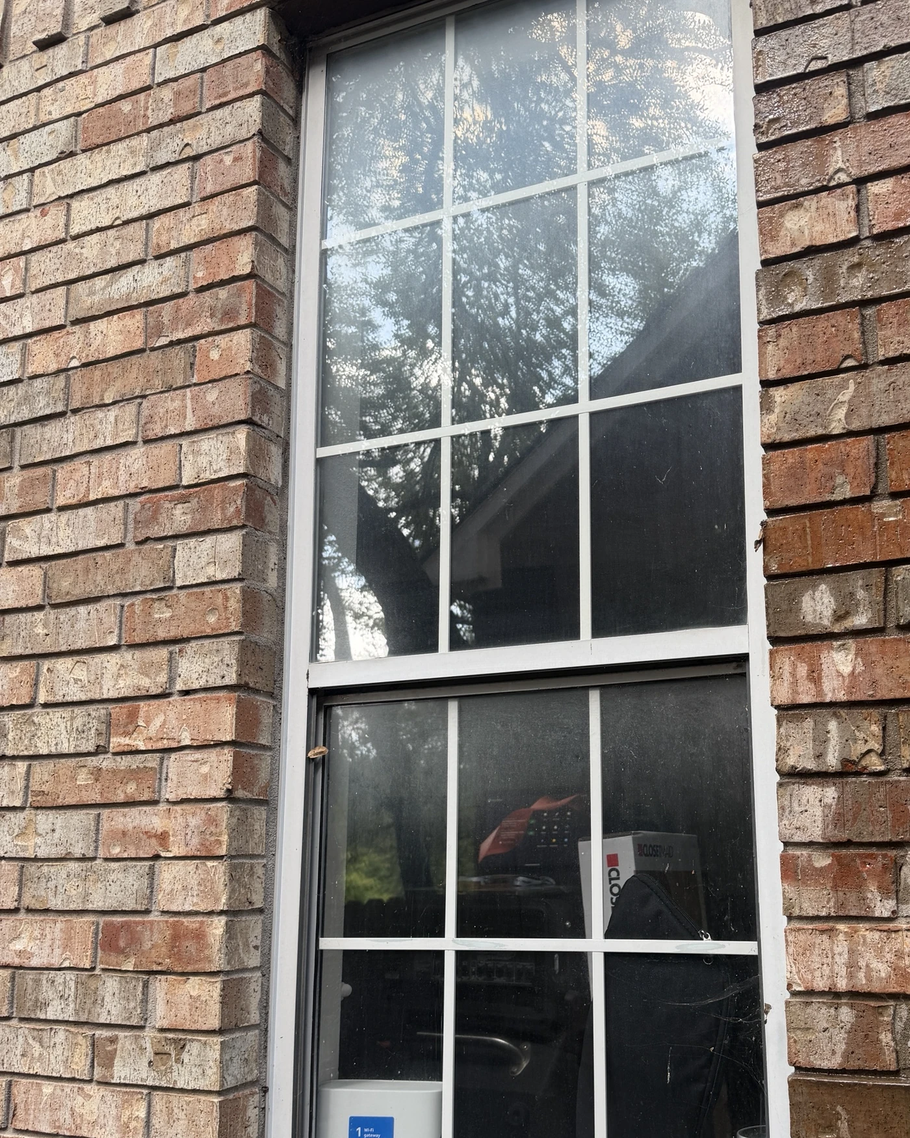
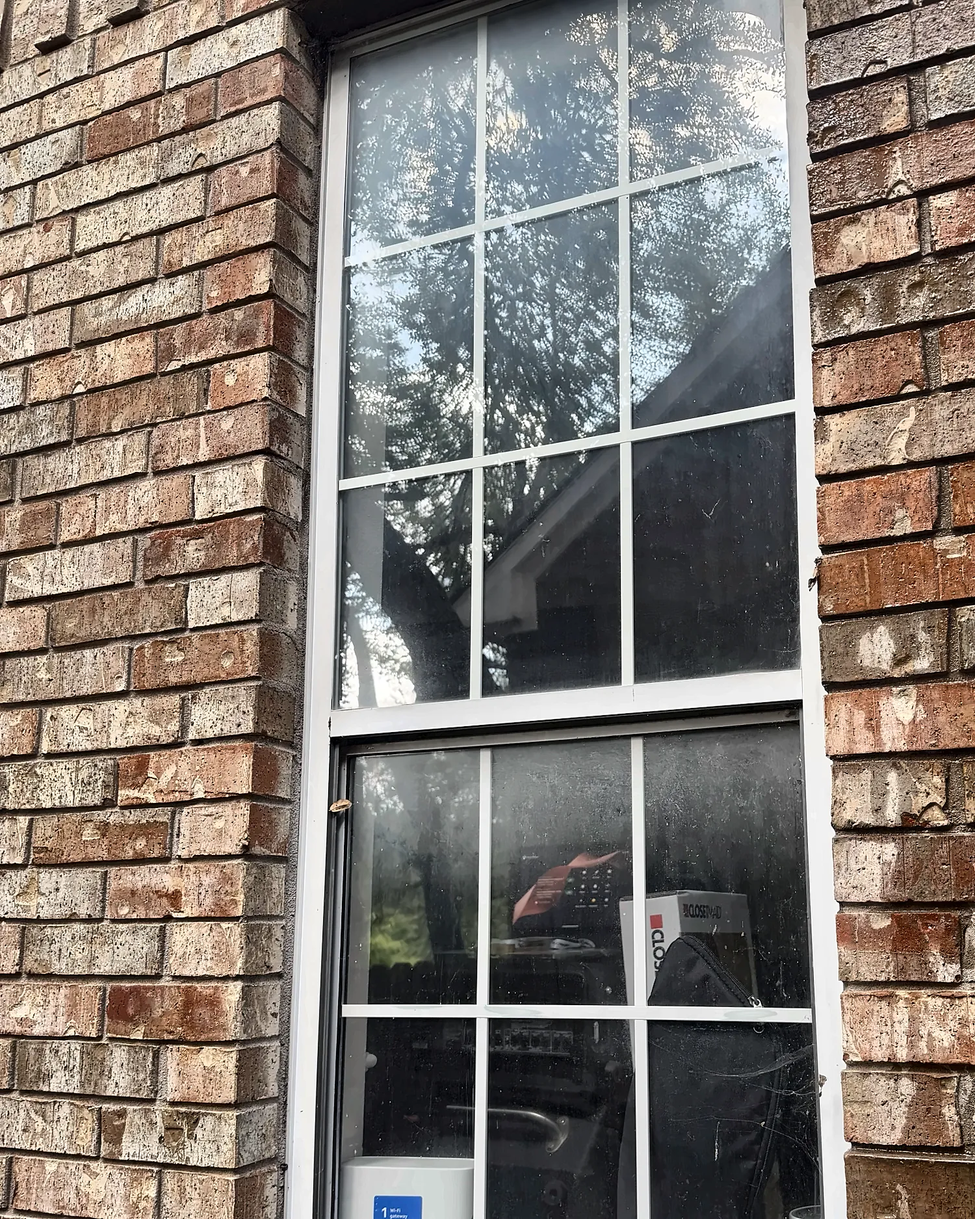
Studio-quality before/after: lossless alignment, clean denoise/sharpen, side-by-side view
Claude-Session: https://claude.ai/code/session_015s5PL8TLBmz3grWm3MhsML

diff --git a/src/components/LivePhoto.jsx b/src/components/LivePhoto.jsx
@@ -4,7 +4,7 @@ import { useReducedMotion } from '../hooks/useMedia'
 import BeforeAfter from './BeforeAfter'
 import WindowScene from './WindowScene'
 
-const img = (src, alt) => <img src={src} alt={alt} className="h-full w-full object-cover" loading="lazy" draggable="false" />
+const img = (src, alt, sm) => <img src={src} srcSet={sm ? `${sm} 900w, ${src} 1500w` : undefined} sizes="(min-width: 1024px) 560px, 100vw" alt={alt} className="h-full w-full object-cover" loading="lazy" decoding="async" draggable="false" />
 
 /**
  * "Live Photo" before/after: shows the dirty still; press & hold (touch) or hover (mouse) and it washes clean.
@@ -19,7 +19,7 @@ export default function LivePhoto({ item, seed = 5, label }) {
   const alt = item?.label || label || 'Window'
   const aspect = item?.aspect || 1.6
   const frame = { aspectRatio: aspect }
-  const rootStyle = aspect < 1 ? { width: '100%', maxWidth: 'min(100%, 560px)', marginInline: 'auto' } : undefined
+  const rootStyle = aspect < 1 ? { width: '100%', maxWidth: mode === 'side' ? 'min(100%, 920px)' : 'min(100%, 560px)', marginInline: 'auto' } : undefined
 
   const paint = (p) => {
     if (after.current) after.current.style.clipPath = `inset(0 ${100 - p * 100}% 0 0)`
@@ -42,14 +42,29 @@ export default function LivePhoto({ item, seed = 5, label }) {
   }
   useEffect(() => { paint(0); return () => st.current.tween?.kill() }, [mode])
 
-  const beforeEl = item ? img(item.before, `${alt} before cleaning`) : <WindowScene dirty seed={seed} />
-  const afterEl = item ? img(item.after, `${alt} after cleaning`) : <WindowScene seed={seed} />
+  const beforeEl = item ? img(item.before, `${alt} before cleaning`, item.beforeSm) : <WindowScene dirty seed={seed} />
+  const afterEl = item ? img(item.after, `${alt} after cleaning`, item.afterSm) : <WindowScene seed={seed} />
+
+  if (mode === 'side') {
+    const cell = (el, tag, hot) => (
+      <figure className="relative overflow-hidden rounded-[22px] border border-silver/20 shadow-[0_30px_70px_-30px_rgba(0,0,0,.8)]" style={{ aspectRatio: aspect }}>
+        <div className="absolute inset-0">{el}</div>
+        <figcaption className={`absolute left-3 top-3 rounded-full px-3 py-1.5 text-[11px] font-bold uppercase tracking-[0.2em] backdrop-blur ${hot ? 'bg-royal text-white shadow-[0_0_24px_rgba(0,122,255,.7)]' : 'bg-midnight/70 text-white'}`}>{tag}</figcaption>
+      </figure>
+    )
+    return (
+      <div key="side" className="mode-in" style={rootStyle}>
+        <div className="grid grid-cols-2 gap-3 md:gap-5">{cell(beforeEl, 'Before')}{cell(afterEl, 'After', true)}</div>
+        <Toggle mode={mode} setMode={setMode} caption={item ? (item.caption || CAPTION) : null} />
+      </div>
+    )
+  }
 
   if (mode === 'slider') {
     return (
       <div key="slider" className="mode-in" style={rootStyle}>
         <BeforeAfter before={beforeEl} after={afterEl} aspect={aspect} />
-        <Toggle mode={mode} setMode={setMode} />
+        <Toggle mode={mode} setMode={setMode} caption={item ? (item.caption || CAPTION) : null} />
       </div>
     )
   }
@@ -89,20 +104,24 @@ export default function LivePhoto({ item, seed = 5, label }) {
           <span className="whitespace-nowrap rounded-full bg-midnight/60 px-3 py-2 text-[10px] tracking-[0.2em] backdrop-blur sm:px-4 sm:text-[11px] sm:tracking-[0.3em]"><span className="hidden [@media(hover:hover)]:inline">Hover</span><span className="[@media(hover:hover)]:hidden">Press &amp; hold</span> to watch it wash clean</span>
         </span>
       </div>
-      <Toggle mode={mode} setMode={setMode} onPlay={() => (playing ? stop() : start())} playing={playing} />
+      <Toggle mode={mode} setMode={setMode} onPlay={() => (playing ? stop() : start())} playing={playing} caption={item ? (item.caption || CAPTION) : null} />
     </div>
   )
 }
 
-function Toggle({ mode, setMode, onPlay, playing }) {
+const CAPTION = 'Real job photos: same window, same spot. Sharpened and color-corrected only.'
+
+function Toggle({ mode, setMode, onPlay, playing, caption }) {
   const b = 'min-h-[44px] rounded-full border px-5 text-sm font-bold transition-colors'
   return (
     <div className="mt-4 flex flex-wrap items-center gap-2">
       <div role="group" aria-label="Comparison style" className="flex gap-2">
         <button onClick={() => setMode('live')} aria-pressed={mode === 'live'} className={`${b} ${mode === 'live' ? 'border-royal bg-royal text-white' : 'border-silver/30 text-silver hover:border-white hover:text-white'}`}>Live</button>
         <button onClick={() => setMode('slider')} aria-pressed={mode === 'slider'} className={`${b} ${mode === 'slider' ? 'border-royal bg-royal text-white' : 'border-silver/30 text-silver hover:border-white hover:text-white'}`}>Slider</button>
+        <button onClick={() => setMode('side')} aria-pressed={mode === 'side'} className={`${b} ${mode === 'side' ? 'border-royal bg-royal text-white' : 'border-silver/30 text-silver hover:border-white hover:text-white'}`}>Side by side</button>
       </div>
       {onPlay && <button onClick={onPlay} aria-pressed={playing} className={`${b} border-silver/30 text-silver hover:border-white hover:text-white`}>{playing ? 'Back to before' : 'Play it'}</button>}
+      {caption && <p className="mt-1 w-full text-[12px] leading-relaxed text-silver-dim">{caption}</p>}
     </div>
   )
 }

diff --git a/src/config/site.js b/src/config/site.js
@@ -184,7 +184,7 @@ export const heroVideo = { src: '', poster: '' }
  * While this list is empty, the site shows illustrated examples instead.
  */
 export const beforeAfter = [
-  { before: '/ba/window1-before.webp', after: '/ba/window1-after.webp', label: 'Brick-front window', aspect: 0.8 },
+  { before: '/ba/window1-before.webp', beforeSm: '/ba/window1-before-sm.webp', after: '/ba/window1-after.webp', afterSm: '/ba/window1-after-sm.webp', label: 'Brick-front window', aspect: 0.8 },
 ]
 
 /**

diff --git a/src/components/WindowCompare.jsx b/src/components/WindowCompare.jsx
@@ -11,7 +11,7 @@ export function WindowCompareGrid() {
   const items = beforeAfter.length ? beforeAfter : [undefined, undefined]
   const single = items.length === 1
   return (
-    <div className={`mt-14 grid gap-8 ${single ? 'mx-auto max-w-[560px]' : 'lg:grid-cols-2'}`}>
+    <div className={`mt-14 grid gap-8 ${single ? 'mx-auto max-w-[920px]' : 'lg:grid-cols-2'}`}>
       {items.map((it, i) => <LivePhoto key={it?.before || i} item={it} seed={[2, 9][i] || i} />)}
     </div>
   )
